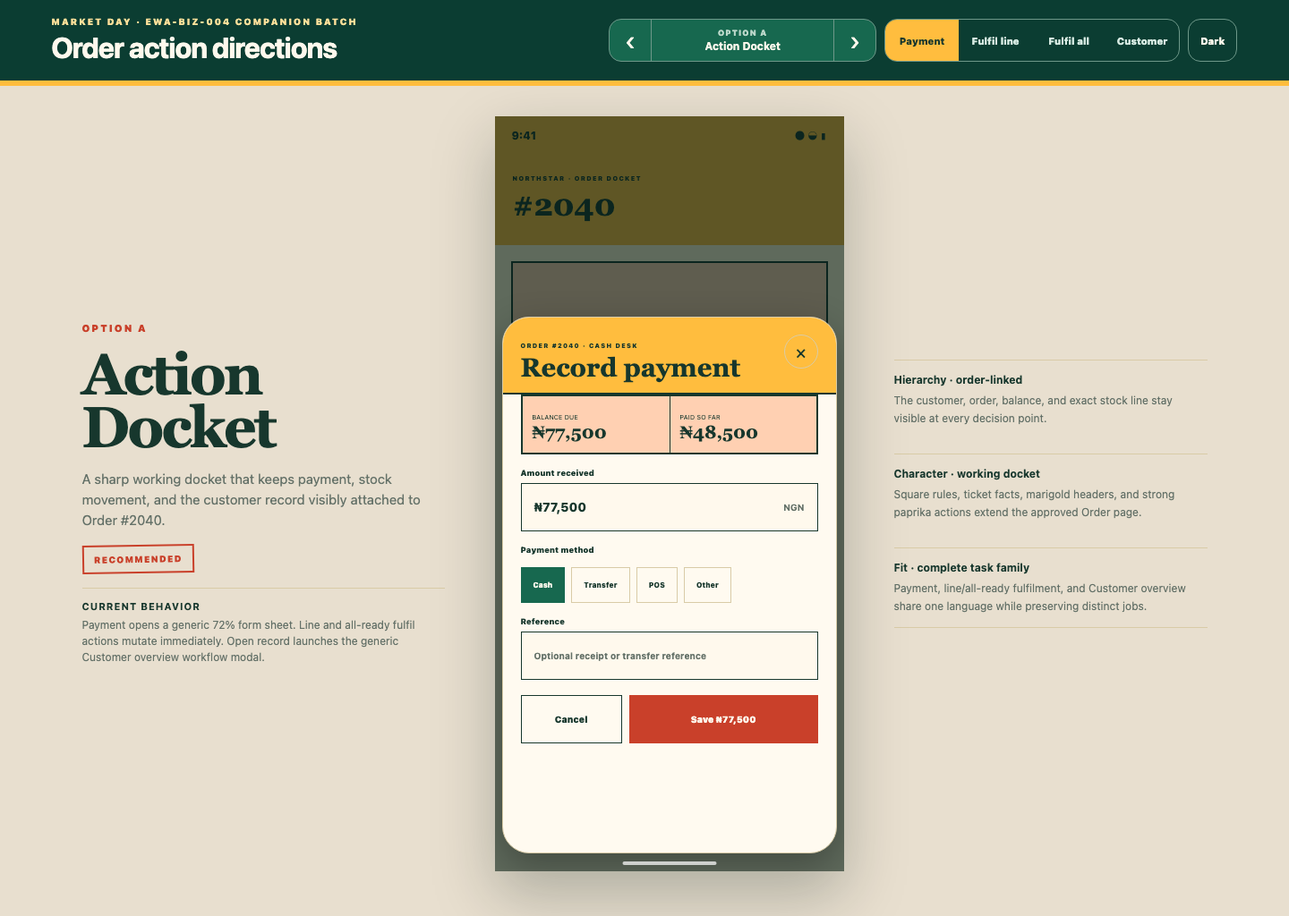
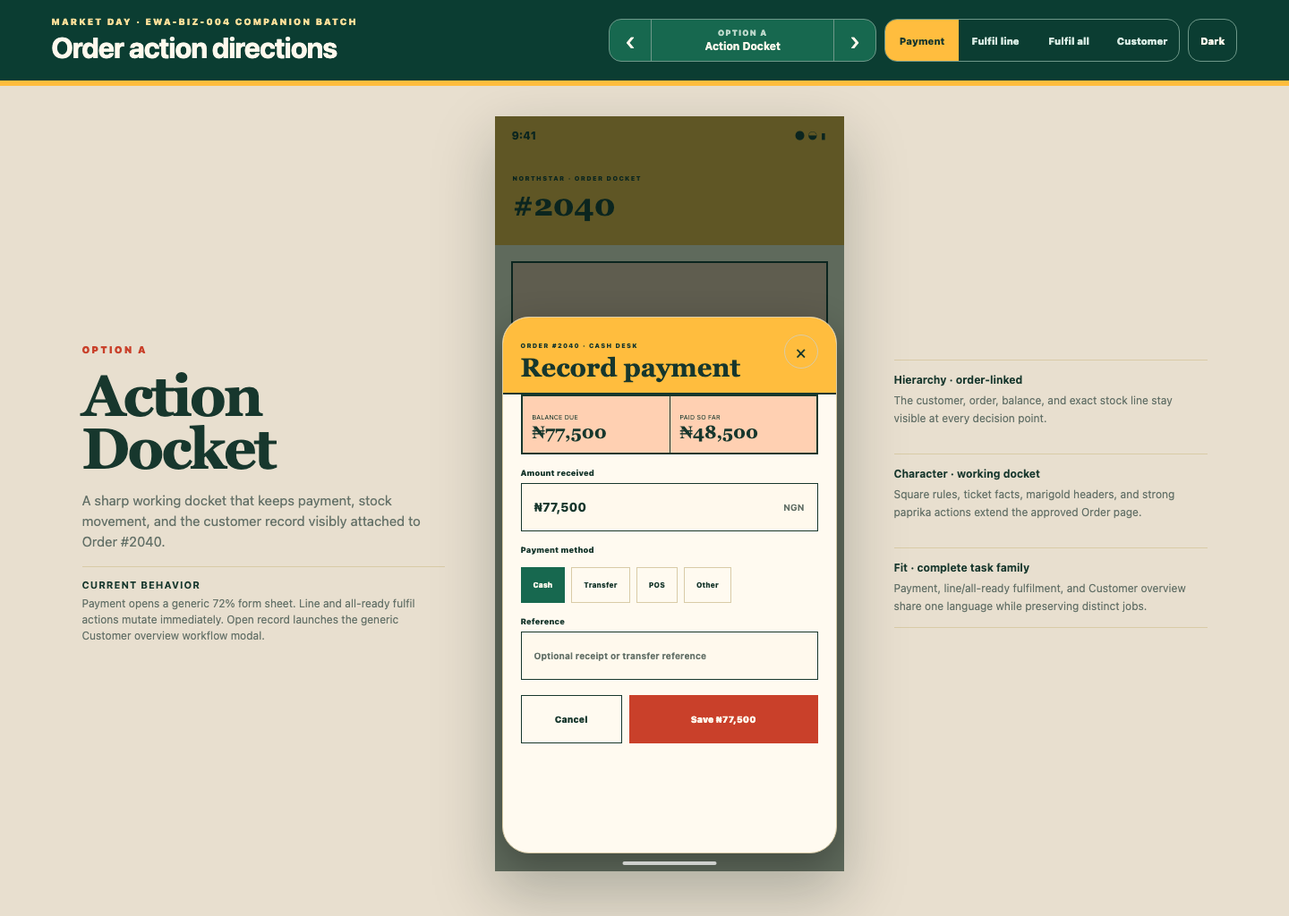
docs(design): add minimalist Order action direction

Changed region(s): [[0.0625, 0.3438, 0.3125, 0.7188]]

diff --git a/.scratch/mobile-architecture-hardening-and-feature-completion/designs/entry-12-order-actions-rich-directions/comparison.html b/.scratch/mobile-architecture-hardening-and-feature-completion/designs/entry-12-order-actions-rich-directions/comparison.html
@@ -26,6 +26,8 @@
     .phone[data-option=c] .customer-shell{background:color-mix(in srgb,var(--paper) 90%,var(--sky))}.phone[data-option=c] .customer-top{border-bottom:0}.phone[data-option=c] .customer-content:before{display:block;margin-bottom:15px;padding:9px;color:#fff9ed;background:var(--palm);content:"1 · CUSTOMER  /  2 · HISTORY  /  3 · NEXT ORDER";font-size:7px;font-weight:900;text-align:center}.phone[data-option=c] .metric,.phone[data-option=c] .info-icon,.phone[data-option=c] .customer-cta{border-radius:12px}
     .phone[data-option=d] .customer-shell{color:#fff4d6;background:var(--deep)}.phone[data-option=d] .customer-top,.phone[data-option=d] .customer-card,.phone[data-option=d] .info-row{border-color:#557f70}.phone[data-option=d] .back,.phone[data-option=d] .customer-close{color:#fff4d6;border-color:#557f70}.phone[data-option=d] .customer-identity p,.phone[data-option=d] .metric span,.phone[data-option=d] .tabs span,.phone[data-option=d] .info-row span{color:#b7c8bf}.phone[data-option=d] .metric{border-color:#557f70;background:#123f34}.phone[data-option=d] .metric b{color:var(--gold)}.phone[data-option=d] .customer-avatar,.phone[data-option=d] .info-icon{color:#17372d;background:var(--gold)}.phone[data-option=d] .customer-cta{color:#17372d;background:var(--gold)}
     .phone[data-option=e] .customer-top{border:0}.phone[data-option=e] .customer-identity{margin-inline:-18px;padding:19px;color:#fff9ed;background:var(--palm)}.phone[data-option=e] .customer-identity p{color:#d8ebe2}.phone[data-option=e] .badge{color:var(--gold);border-color:var(--gold)}.phone[data-option=e] .metrics{margin-top:0}.phone[data-option=e] .metric{border-top:0;background:transparent}.phone[data-option=e] .customer-cta{background:var(--palm)}
+    .f .sheet{right:0;bottom:0;left:0;min-height:610px;border:0;border-top:1px solid var(--line);border-radius:28px 28px 0 0;background:var(--paper);box-shadow:0 -12px 32px rgb(0 0 0/.18)}.f .grab{margin-top:10px}.f .sheet-header{align-items:center;padding:10px 20px 12px}.f .sheet-header small{display:none}.f .sheet-header h3{margin:0;font-family:Inter,ui-sans-serif,system-ui,sans-serif;font-size:21px;line-height:1.2;letter-spacing:-.4px}.f .close{width:40px;height:40px;background:var(--cream)}.f .quiet-summary{display:flex;align-items:center;justify-content:space-between;padding:13px 14px;border:1px solid var(--line);border-radius:14px;background:var(--cream)}.f .quiet-summary span{color:var(--muted);font-size:8px;font-weight:850}.f .quiet-summary b{font-size:18px}.f .input{border-radius:12px;background:var(--cream)}.f .chip{border-radius:10px}.f .warning{border:1px solid var(--line);border-left:3px solid var(--paprika);border-radius:10px;background:var(--cream)}.f .actions{grid-template-columns:1fr}.f .btn{border-radius:13px}.f .btn:first-child{order:2;min-height:44px;border:0;color:var(--muted)}.f .btn.primary{color:#fff9ed;border-color:var(--palm);background:var(--palm)}.phone[data-option=f] .customer-shell{background:var(--paper)}.phone[data-option=f] .customer-top{height:66px;background:var(--paper)}.phone[data-option=f] .customer-top b{font-family:Inter,ui-sans-serif,system-ui,sans-serif;font-size:20px}.phone[data-option=f] .customer-content{padding-top:22px}.phone[data-option=f] .customer-identity h3{font-family:Inter,ui-sans-serif,system-ui,sans-serif;font-size:23px}.phone[data-option=f] .metric{border:0;border-radius:14px;background:var(--cream)}.phone[data-option=f] .customer-cta{border-radius:13px}.phone[data-option=f] .customer-card{border:0;border-radius:14px;background:var(--cream);padding:0 14px}.phone[data-option=f] .info-icon{border-radius:9px}
+    .phone[data-option=f][data-state="fulfil-all"] .fulfil .sheet-header h3:after{font-size:21px}.phone[data-option=f][data-state="fulfil-all"] .fulfil .content:before{border-color:var(--line);border-radius:10px;background:var(--cream)}
     @media(max-width:767px){.state-toggle button{min-width:68px;font-size:9px}}
   </style>
 </head>
@@ -40,6 +42,7 @@
       <section class="sheet c" data-option="c"><div class="grab"></div><div class="sheet-state payment active" data-state="payment"><header class="sheet-header"><div><small>GUIDED ORDER ACTION</small><h3>Confirm payment</h3></div><button class="close">×</button></header><div class="progress"><span class="done">1 · Details</span><span>2 · Confirm</span></div><div class="content"><div class="step"><b>01</b><div><h4>Amount</h4><p>₦77,500, the complete outstanding balance</p></div></div><div class="step"><b>02</b><div><h4>Method</h4><p>Cash · change if the customer paid another way</p></div></div><div class="field"><label>Payment reference</label><div class="input"><em>Optional</em></div></div><div class="actions"><button class="btn">Back</button><button class="btn primary">Review payment</button></div></div></div><div class="sheet-state fulfil" data-state="fulfil"><header class="sheet-header"><div><small>GUIDED ORDER ACTION</small><h3>Confirm fulfilment</h3></div><button class="close">×</button></header><div class="progress"><span class="done">1 · Line</span><span>2 · Confirm</span></div><div class="content"><div class="step"><b>01</b><div><h4>Stock to move</h4><p>5 × Ofada rice, Premium 25 kg bag</p></div></div><div class="step"><b>02</b><div><h4>What changes</h4><p>Reservation committed · stock movement recorded</p></div></div><div class="warning"><b>!</b><span>Confirm only when all five bags are physically ready for handoff.</span></div><div class="actions"><button class="btn">Back</button><button class="btn primary">Review fulfilment</button></div></div></div></section>
       <section class="sheet d" data-option="d"><div class="grab"></div><div class="sheet-state payment active" data-state="payment"><header class="sheet-header"><div><small>QUICK ACTION · #2040</small><h3>Payment</h3></div><button class="close">×</button></header><div class="content"><div class="quick-total"><span>Balance due</span><b>₦77,500</b></div><div class="field"><div class="input"><span>₦77,500</span><em>Amount</em></div></div><div class="chips"><button class="chip selected">Cash</button><button class="chip">Transfer</button><button class="chip">POS</button><button class="chip">Other</button></div><div class="actions"><button class="btn">Cancel</button><button class="btn primary">Save payment</button></div></div></div><div class="sheet-state fulfil" data-state="fulfil"><header class="sheet-header"><div><small>QUICK ACTION · #2040</small><h3>Fulfil line</h3></div><button class="close">×</button></header><div class="content"><div class="quick-total"><span>Ofada rice · Premium</span><b>× 5</b></div><div class="item"><span class="item-icon">▦</span><div><h4>25 kg bag</h4><p>Active reservation</p></div><strong>Ready</strong></div><div class="warning"><b>!</b><span>Records stock fulfilment now. No undo here.</span></div><div class="actions"><button class="btn">Cancel</button><button class="btn primary">Fulfil 5 bags</button></div></div></div></section>
       <section class="sheet e" data-option="e"><div class="grab"></div><div class="sheet-state payment active" data-state="payment"><header class="sheet-header"><div><small>FINAL CHECK · PAYMENT</small><h3>Before you record it.</h3></div><button class="close">×</button></header><div class="hero-step"><span class="micro" style="color:#d8ebe2">CUSTOMER AND ORDER</span><b>Emeka Stores · #2040</b></div><div class="content"><div class="review-list"><div class="review-row"><span>Amount received</span><b>₦77,500</b></div><div class="review-row"><span>Payment method</span><b>Cash</b></div><div class="review-row"><span>Balance after this</span><b>₦0</b></div><div class="review-row"><span>Reference</span><b>None</b></div></div><div class="warning"><b>✓</b><span>The order will be fully paid after this entry.</span></div><div class="actions"><button class="btn">Go back</button><button class="btn primary">Yes, record payment</button></div></div></div><div class="sheet-state fulfil" data-state="fulfil"><header class="sheet-header"><div><small>FINAL CHECK · FULFILMENT</small><h3>Are all five bags ready?</h3></div><button class="close">×</button></header><div class="hero-step"><span class="micro" style="color:#d8ebe2">STOCK TO HAND OFF</span><b>Ofada rice · Premium</b></div><div class="content"><div class="review-list"><div class="review-row"><span>Quantity</span><b>5 × 25 kg bag</b></div><div class="review-row"><span>Reservation</span><b>Active</b></div><div class="review-row"><span>Order after this</span><b>Fulfilling</b></div><div class="review-row"><span>Undo on this screen</span><b>Not available</b></div></div><div class="warning"><b>!</b><span>Only confirm after the stock is physically packed and ready for handoff.</span></div><div class="actions"><button class="btn">Not yet</button><button class="btn primary">Yes, fulfil line</button></div></div></div></section>
+      <section class="sheet f" data-option="f"><div class="grab"></div><div class="sheet-state payment active" data-state="payment"><header class="sheet-header"><div><small>ORDER #2040</small><h3>Record payment</h3></div><button class="close">×</button></header><div class="content"><div class="quiet-summary"><span>BALANCE DUE</span><b>₦77,500</b></div><div class="field"><label>Amount received</label><div class="input"><span>₦77,500</span><em>NGN</em></div></div><div class="field"><label>Payment method</label><div class="chips"><button class="chip selected">Cash</button><button class="chip">Transfer</button><button class="chip">POS</button><button class="chip">Other</button></div></div><div class="field"><label>Reference</label><div class="input"><em>Optional</em></div></div><div class="actions"><button class="btn">Cancel</button><button class="btn primary">Save payment</button></div></div></div><div class="sheet-state fulfil" data-state="fulfil"><header class="sheet-header"><div><small>ORDER #2040</small><h3>Fulfil product line</h3></div><button class="close">×</button></header><div class="content"><div class="quiet-summary"><span>OFADA RICE · PREMIUM</span><b>5 bags</b></div><div class="item"><span class="item-icon">▦</span><div><h4>25 kg bag</h4><p>Reservation active</p></div><strong>Ready</strong></div><div class="warning"><b>!</b><span>This records the stock movement and updates the Order. Confirm only when the bags are ready.</span></div><div class="actions"><button class="btn">Cancel</button><button class="btn primary">Confirm fulfilment</button></div></div></div></section>
       <section class="customer-shell" data-state="customer">
         <header class="customer-top"><button class="back" aria-label="Back to customer list">‹</button><b>Customer overview</b><button class="customer-close" aria-label="Close customer record">×</button></header>
         <div class="customer-content">
@@ -56,16 +59,17 @@
   </main>
   <script>
     const options=[
-      {key:"a",name:"Action Docket",summary:"A sharp working docket that keeps payment, stock movement, and the customer record visibly attached to Order #2040.",h:"Hierarchy · order-linked",hc:"The customer, order, balance, and exact stock line stay visible at every decision point.",c:"Character · working docket",cc:"Square rules, ticket facts, marigold headers, and strong paprika actions extend the approved Order page.",f:"Fit · complete task family",fc:"Payment, line/all-ready fulfilment, and Customer overview share one language while preserving distinct jobs.",r:true},
+      {key:"a",name:"Action Docket",summary:"A sharp working docket that keeps payment, stock movement, and the customer record visibly attached to Order #2040.",h:"Hierarchy · order-linked",hc:"The customer, order, balance, and exact stock line stay visible at every decision point.",c:"Character · working docket",cc:"Square rules, ticket facts, marigold headers, and strong paprika actions extend the approved Order page.",f:"Fit · complete task family",fc:"Payment, line/all-ready fulfilment, and Customer overview share one language while preserving distinct jobs.",r:false},
       {key:"b",name:"Counter Receipt",summary:"A tactile till, stock-release, and customer-card system for owners handling the whole sale at the counter.",h:"Hierarchy · transaction first",hc:"Money reads like a receipt; fulfilment like a stock release; the customer like a counter account card.",c:"Character · market counter",cc:"Paprika headers, torn slips, denomination shortcuts, and tactile cards feel physical and memorable.",f:"Fit · strongest retail metaphor",fc:"Excellent at the counter, but less natural for remote or service-heavy orders.",r:false},
       {key:"c",name:"Guided Checkpoint",summary:"A guided lane for staff who need calm context before recording money, moving stock, or continuing with a customer.",h:"Hierarchy · one decision at a time",hc:"Each task exposes context first, then the next safe action.",c:"Character · field checkpoint",cc:"Sky-tinted canvas, numbered steps, and palm progress make the workflow instructional without becoming a tutorial.",f:"Fit · safest staff guidance",fc:"The added structure reduces mistakes, but slows experienced owners handling many orders.",r:false},
       {key:"d",name:"Quick Desk",summary:"A compact operator system that keeps frequent Order and customer actions fast.",h:"Hierarchy · compact essentials",hc:"Only the amount, stock line, customer facts, and immediate next action remain.",c:"Character · night cash desk",cc:"Deep palm, gold figures, and tight rows create a focused high-frequency tool.",f:"Fit · fastest repeat use",fc:"Efficient for experienced staff, with less explanation for a first-time operator.",r:false},
-      {key:"e",name:"Final Handoff",summary:"A deliberate review system that makes consequences and the customer relationship clear before the next action.",h:"Hierarchy · consequence first",hc:"The user sees what changes after each action and who the Order belongs to.",c:"Character · calm handoff",cc:"Large conversational prompts and one review ledger make each transition feel human and accountable.",f:"Fit · strongest error prevention",fc:"Best protection from mistakes, but deliberately slower than the other directions.",r:false}
+      {key:"e",name:"Final Handoff",summary:"A deliberate review system that makes consequences and the customer relationship clear before the next action.",h:"Hierarchy · consequence first",hc:"The user sees what changes after each action and who the Order belongs to.",c:"Character · calm handoff",cc:"Large conversational prompts and one review ledger make each transition feel human and accountable.",f:"Fit · strongest error prevention",fc:"Best protection from mistakes, but deliberately slower than the other directions.",r:false},
+      {key:"f",name:"Quiet Sheet",summary:"A minimalist extension of the existing bottom sheet: familiar structure, less decoration, clear labels, and one calm primary action.",h:"Hierarchy · familiar and direct",hc:"Title, critical amount or quantity, fields, warning, and action appear in the order users already expect.",c:"Character · quiet utility",cc:"Neutral paper, soft dividers, restrained rounding, and one palm action keep the work calm without becoming plain white UI.",f:"Fit · closest to current behavior",fc:"The smallest visual change and fastest implementation, while still fixing fulfilment safety and cross-surface consistency.",r:true}
     ];
     const q=new URLSearchParams(location.search);let i=Math.max(0,options.findIndex(o=>o.key===q.get("option")));const allowedStates=["payment","fulfil","fulfil-all","customer"];let state=allowedStates.includes(q.get("state"))?q.get("state"):"payment";document.documentElement.dataset.theme=q.get("theme")==="dark"?"dark":"light";
     const $=s=>document.querySelector(s),fields={ci:$("#current-index"),cn:$("#current-name"),oi:$("#copy-index"),t:$("#copy-title"),s:$("#copy-summary"),r:$("#recommendation"),h:$("#note-hierarchy"),hc:$("#note-hierarchy-copy"),c:$("#note-character"),cc:$("#note-character-copy"),f:$("#note-fit"),fc:$("#note-fit-copy"),theme:$("#theme-toggle"),payment:$("#payment-state"),fulfil:$("#fulfil-state"),fulfilAll:$("#fulfil-all-state"),customer:$("#customer-state")};
     function render(){const o=options[i],isCustomer=state==="customer",surfaceState=state==="fulfil-all"?"fulfil":state,phone=$(".phone");phone.dataset.option=o.key;phone.dataset.state=state;document.querySelectorAll(".sheet").forEach(x=>x.classList.toggle("active-option",!isCustomer&&x.dataset.option===o.key));document.querySelectorAll(".sheet-state").forEach(x=>x.classList.toggle("active",x.dataset.state===surfaceState));$(".customer-shell").classList.toggle("active",isCustomer);fields.ci.textContent=`Option ${o.key.toUpperCase()}`;fields.cn.textContent=o.name;fields.oi.textContent=`Option ${o.key.toUpperCase()}`;fields.t.textContent=o.name;fields.s.textContent=o.summary;fields.r.classList.toggle("visible",o.r);for(const k of ["h","hc","c","cc","f","fc"])fields[k].textContent=o[k];fields.theme.textContent=document.documentElement.dataset.theme==="light"?"Dark":"Light";fields.payment.classList.toggle("active",state==="payment");fields.fulfil.classList.toggle("active",state==="fulfil");fields.fulfilAll.classList.toggle("active",state==="fulfil-all");fields.customer.classList.toggle("active",state==="customer");const u=new URL(location.href);u.searchParams.set("option",o.key);u.searchParams.set("theme",document.documentElement.dataset.theme);u.searchParams.set("state",state);history.replaceState({},"",u)}
-    $("#previous").onclick=()=>{i=(i+4)%5;render()};$("#next").onclick=()=>{i=(i+1)%5;render()};fields.theme.onclick=()=>{document.documentElement.dataset.theme=document.documentElement.dataset.theme==="light"?"dark":"light";render()};fields.payment.onclick=()=>{state="payment";render()};fields.fulfil.onclick=()=>{state="fulfil";render()};fields.fulfilAll.onclick=()=>{state="fulfil-all";render()};fields.customer.onclick=()=>{state="customer";render()};render();
+    $("#previous").onclick=()=>{i=(i+options.length-1)%options.length;render()};$("#next").onclick=()=>{i=(i+1)%options.length;render()};fields.theme.onclick=()=>{document.documentElement.dataset.theme=document.documentElement.dataset.theme==="light"?"dark":"light";render()};fields.payment.onclick=()=>{state="payment";render()};fields.fulfil.onclick=()=>{state="fulfil";render()};fields.fulfilAll.onclick=()=>{state="fulfil-all";render()};fields.customer.onclick=()=>{state="customer";render()};render();
   </script>
 </body>
 </html>

diff --git a/.scratch/mobile-architecture-hardening-and-feature-completion/designs/entry-12-order-actions-rich-directions/README.md b/.scratch/mobile-architecture-hardening-and-feature-completion/designs/entry-12-order-actions-rich-directions/README.md
@@ -20,7 +20,7 @@ ready**, and the **Customer record** opened from the approved Dispatch Docket.
   against `CommercialOrderScreen`, the Orders router, and the commercial Order
   query implementation.
 
-## Five four-state directions
+## Six four-state directions
 
 Every option includes Payment, per-line fulfilment, all-ready fulfilment, and
 Customer record states, plus matched Light and Dark themes. Use the four-state
@@ -37,14 +37,20 @@ toggle to inspect the complete direct-surface family.
    compact sheet, with less explanation for first-time staff.
 5. **E, Final Handoff**. The clearest consequence review and best mistake
    prevention, but deliberately slower than the other directions.
+6. **F, Quiet Sheet**, minimalist recommendation added after owner feedback.
+   Keeps the familiar rounded bottom sheet, removes the receipt/ticket styling,
+   uses neutral paper and soft rules, and reserves palm green for the single
+   primary action. The Customer state keeps its existing full-screen workflow
+   modal shape in the same quiet language.
 
 ## Recommendation
 
-Choose **Option A, Action Docket**. It is the closest visual and behavioral fit
-with the owner-approved Order page, preserves fast payment entry, and adds the
-missing safety boundary before stock is committed. This is a recommendation,
-not approval. Production action-sheet work remains paused until the owner
-explicitly chooses an option or asks for another batch.
+Choose **Option F, Quiet Sheet** based on the owner's request for a minimalist
+bottom sheet like the existing production surface. It preserves familiar
+interaction geometry, removes decorative metaphors, and still adds the missing
+safety boundary before stock is committed. This is a recommendation, not
+approval. Production work remains paused until the owner explicitly approves
+Option F or chooses another direction.
 
 ## Evidence
 
@@ -59,6 +65,8 @@ explicitly chooses an option or asks for another batch.
 - [All Fulfil-all options, Dark](./all-options-fulfil-all-dark.png)
 - [All Customer record options, Light](./all-options-customer-light.png)
 - [All Customer record options, Dark](./all-options-customer-dark.png)
+- [Option F complete interaction, Light](./minimalist-option-f-light.png)
+- [Option F complete interaction, Dark](./minimalist-option-f-dark.png)
 - [Option A Payment, Light](./option-a-payment.png) /
   [Dark](./option-a-payment-dark.png)
 - [Option A Fulfil line, Light](./option-a-fulfil.png) /
@@ -67,6 +75,14 @@ explicitly chooses an option or asks for another batch.
   [Dark](./option-a-fulfil-all-dark.png)
 - [Option A Customer record, Light](./option-a-customer.png) /
   [Dark](./option-a-customer-dark.png)
+- [Option F Payment, Light](./option-f-payment.png) /
+  [Dark](./option-f-payment-dark.png)
+- [Option F Fulfil line, Light](./option-f-fulfil.png) /
+  [Dark](./option-f-fulfil-dark.png)
+- [Option F Fulfil all, Light](./option-f-fulfil-all.png) /
+  [Dark](./option-f-fulfil-all-dark.png)
+- [Option F Customer record, Light](./option-f-customer.png) /
+  [Dark](./option-f-customer-dark.png)
 - [Mobile board verification](./review-mobile.png)
 - [Tablet board verification](./review-tablet.png)
 - [Desktop board verification](./review-desktop.png)

diff --git a/.scratch/mobile-architecture-hardening-and-feature-completion/ui-audit-ledger.md b/.scratch/mobile-architecture-hardening-and-feature-completion/ui-audit-ledger.md
@@ -38,7 +38,7 @@
 | EWA-BIZ-001   | Business Home                 | `/dashboard`, `/(admin-tabs)/admin-home`     | Complete · owner-approved A — Market Ledger implemented and native-QA verified across roles, states, themes, text scales and scrolling      | None                                                                                                                      |
 | EWA-BIZ-002   | Sales rep Home                | `/sales-rep-home`                            | Complete · owner-approved A — Shift Ledger implemented and native-QA verified across states, themes, 100%/200%, scrolling and accessibility | None                                                                                                                      |
 | EWA-BIZ-003   | Orders list                   | `/(admin-tabs)/orders`                       | Complete · owner-approved A — Dispatch Ledger implemented and native-QA verified across states, themes, 100%/200% text and scrolling        | None                                                                                                                      |
-| EWA-BIZ-004   | Order detail                  | `/order/[orderId]`                           | Companion design review · parent Option A implemented and corrected; five Payment / Fulfil line / Fulfil all / Customer directions ready | Explicit owner companion-option approval                                                                                  |
+| EWA-BIZ-004   | Order detail                  | `/order/[orderId]`                           | Companion design review · parent A implemented; six four-state directions ready; minimalist F recommended                               | Explicit owner companion-option approval                                                                                  |
 | EWA-BIZ-005   | Catalog list                  | `/(admin-tabs)/catalog`                      | Queued                                                                                                                                     | Native baseline                                                                                                           |
 | EWA-BIZ-006   | Catalog item detail           | `/catalog-item/[catalogItemId]`              | Queued                                                                                                                                     | Native baseline                                                                                                           |
 | EWA-BIZ-007   | More / settings index         | `/(admin-tabs)/more`                         | Queued                                                                                                                                     | Native baseline                                                                                                           |

diff --git a/.scratch/mobile-architecture-hardening-and-feature-completion/designs/entry-12-order-detail-rich-directions/README.md b/.scratch/mobile-architecture-hardening-and-feature-completion/designs/entry-12-order-detail-rich-directions/README.md
@@ -72,7 +72,7 @@ the oversized, dark Record payment content that triggered this correction pass.
 ## Companion action surfaces
 
 The Order detail batch now includes the directly opened tasks, not only the
-parent page. Review the five **Record payment**, **Fulfil line**, **Fulfil all
+parent page. Review the six **Record payment**, **Fulfil line**, **Fulfil all
 ready**, and **Customer record** directions in the
 [Order actions companion package](../entry-12-order-actions-rich-directions/README.md).
 Production work on these child surfaces is paused for explicit owner choice.
@@ -90,7 +90,7 @@ directly; the complete Customer directory remains its own later screen batch.
 - [x] Capture Light/Dark, scroll, state, and 100%/200% native evidence.
 - [x] Verify and commit the Record payment and Fulfil line button corrections.
 - [x] Archive current payment, immediate fulfilment, and Customer record behavior.
-- [x] Prepare five four-state Light/Dark companion directions and pause for owner approval.
+- [x] Prepare six four-state Light/Dark companion directions, including the requested minimalist Option F, and pause for owner approval.
 - [ ] Implement the owner-approved Order companion surfaces.
 - [ ] Run final source, formatting, bundle, and independent review gates.
 - [ ] Commit the scoped implementation and synchronize Brain/program records.
@@ -107,6 +107,6 @@ Status: parent implemented; companion action batch awaiting owner approval.
 - Current Checklist: 11/13 — Implement the owner-approved Order companion surfaces
 - Blockers: Awaiting explicit owner approval of the four-state companion direction
 - Brain Task: [Task](../../../../.brain/tasks/2026-09-06-order-detail-design-review.md)
-- Last Updated: 2026-09-06T22:24:00+01:00
+- Last Updated: 2026-09-07T00:18:00+01:00
 
 <!-- implement-with-progress:end -->

diff --git a/.brain/features/mobile-market-day-screen-by-screen-redesign.md b/.brain/features/mobile-market-day-screen-by-screen-redesign.md
@@ -175,9 +175,11 @@ color-forward redesign program.
   payment sheet, per-line and all-ready fulfil actions, and directly opened
   Customer overview are treated as one interaction batch. The current payment
   form, immediate no-confirmation fulfil behavior, and generic Customer modal
-  are source-audited. Five Light/Dark directions are available with four-state
-  Payment/Fulfil line/Fulfil all/Customer switching. Option A, `Action Docket`,
-  is recommended; production child-surface work remains paused for explicit
+  are source-audited. Six Light/Dark directions are available with four-state
+  Payment/Fulfil line/Fulfil all/Customer switching. On 2026-09-07, owner
+  feedback requested a minimalist direction using the familiar bottom-sheet
+  pattern. Option F, `Quiet Sheet`, now provides that restrained replacement
+  and is recommended. Production child-surface work remains paused for explicit
   owner approval. This order-linked Customer state does not replace the later
   full Customer book batch.
 

diff --git a/.brain/tasks/2026-09-06-order-detail-design-review.md b/.brain/tasks/2026-09-06-order-detail-design-review.md
@@ -21,6 +21,8 @@ In Progress
 The approved parent Order detail is implemented and corrected. The companion
 review now covers every surface opened directly from the Order page: Record
 payment, Fulfil line, Fulfil all ready, and the order-linked Customer overview.
-Five Light/Dark directions are ready, with Option A (`Action Docket`)
-recommended. Production companion work remains paused for explicit owner
-approval. The full Customer book directory remains a separate later batch.
+Six Light/Dark directions are ready. Option F (`Quiet Sheet`) was added on
+2026-09-07 after the owner requested a minimalist direction based on the
+existing rounded bottom sheet, and it is now recommended. Production companion
+work remains paused for explicit owner approval. The full Customer book
+directory remains a separate later batch.

diff --git a/.brain/tasks/in-progress.md b/.brain/tasks/in-progress.md
@@ -7,7 +7,8 @@
 ### [Mobile Market Day screen-by-screen redesign](../features/mobile-market-day-screen-by-screen-redesign.md)
 
 - Status: In Progress — next gate is owner approval of the `EWA-BIZ-004`
-  Payment / Fulfil line / Fulfil all / Customer companion batch
+  six-direction Payment / Fulfil line / Fulfil all / Customer companion batch;
+  minimalist Option F (`Quiet Sheet`) is recommended
 - Headline implementation progress: 10/38 screens (26.3%).
 
 - Provision and verify the owner-approved production observability rollout.

diff --git a/.scratch/mobile-architecture-hardening-and-feature-completion/map.md b/.scratch/mobile-architecture-hardening-and-feature-completion/map.md
@@ -128,7 +128,7 @@ review batch until the owner explicitly chooses an option.
 
 ## Frontier
 
-1. Owner reviews the five four-state Payment, Fulfil line, Fulfil all, and
+1. Owner reviews the six four-state Payment, Fulfil line, Fulfil all, and
    Customer directions in
    `designs/entry-12-order-actions-rich-directions/comparison.html`.
 2. Owner explicitly selects one companion direction or requests a replacement
